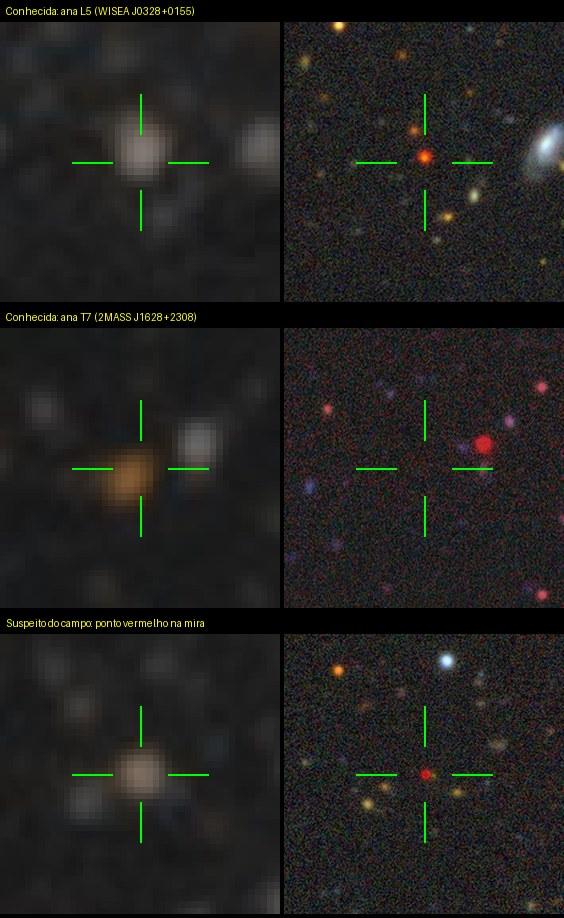
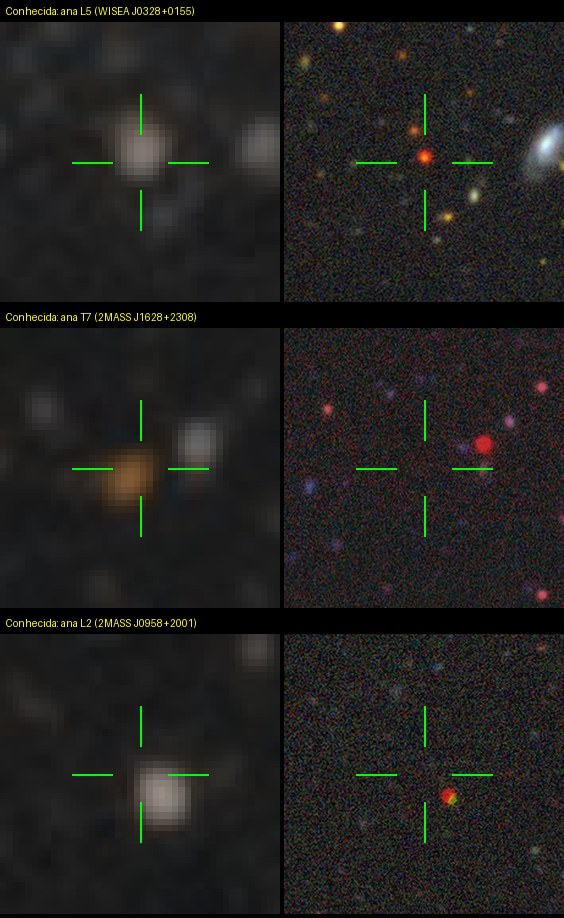
chore: preparar repositorio publico
- referencia de 'confirmar' usa a ana L2 2MASS J0958+2001 no lugar do
  candidato confirmado, que fica fora do publico ate a segunda opiniao
- resumo em ingles no README, CI com os testes offline e selo
- versoes fixas no requirements.txt (com pillow, usado em tools/)

diff --git a/tools/gerar_referencias.py b/tools/gerar_referencias.py
@@ -28,7 +28,8 @@ CASOS = {
     "confirmar": [
         (52.16177, 1.92045, "Conhecida: ana L5 (WISEA J0328+0155)"),
         (247.162496, 23.138284, "Conhecida: ana T7 (2MASS J1628+2308)"),
-        (150.318181, 18.670468, "Suspeito do campo: ponto vermelho na mira"),
+        # candidato confirmado fica fora do repositorio publico ate a segunda opiniao
+        (149.711708, 20.03125, "Conhecida: ana L2 (2MASS J0958+2001)"),
     ],
     "duvida": [
         (113.680876, -71.962338, "Conhecida: ana Y0 (WISE J0734-7157)"),

diff --git a/README.md b/README.md
@@ -1,10 +1,16 @@
 # Rastro
 
+[![testes](https://github.com/mpena2099/rastro/actions/workflows/testes.yml/badge.svg)](https://github.com/mpena2099/rastro/actions/workflows/testes.yml)
+
 Pipeline pessoal de mineração de dados astronômicos que caça **anãs marrons e estrelas frias próximas ao Sol** ainda não catalogadas, procurando por **movimento próprio anômalo** no catálogo público **CatWISE2020**.
 
 ![Ilustração artística de uma anã marrom](docs/img/eso1404c.jpg)
 
 *Ilustração artística de uma anã marrom (Luhman 16B), parte do terceiro sistema mais próximo do Sol. Crédito: ESO/I. Crossfield/N. Risinger (skysurvey.org), [CC BY 4.0](https://creativecommons.org/licenses/by/4.0/).*
+
+## English summary
+
+Rastro is a personal data-mining pipeline that hunts for **uncatalogued brown dwarfs and cool stars near the Sun** through **high proper motion** in the public **CatWISE2020** catalogue (queried via IRSA TAP). Five automated phases share state through SQLite: a sanity check that recovers Luhman 16 and compares its measured proper motion, a tiled field download with server-side cuts, quality filtering (proper-motion significance, W2 SNR, contamination flags, pmcode), removal of known objects by SIMBAD cross-match, and an LLM triage that only ranks, never decides. Two manual phases follow: a local Streamlit app for visual review (unWISE and Legacy Surveys cutouts, Gaia/Pan-STARRS counterparts, and a consistency test of the motion against AllWISE positions) and an HTML report for a second opinion. Recall against 949 known L/T/Y dwarfs from SIMBAD is about 76%. A 25 deg² scan (RA 148-153, Dec +18 to +23) left 239 candidates under review; no discovery is claimed. Code and docs are in Portuguese; `config.py` holds every parameter. Run with `python pipeline.py`; offline tests with `python tests/test_units.py`.
 
 ## Em palavras simples
 
@@ -84,7 +90,7 @@ Em cada linha: infravermelho (unWISE NEO7) e óptico (Legacy Surveys). As três 
 
 1. **Anã L5 conhecida.** Bolha nítida no infravermelho e um ponto vermelho no óptico, os dois na mira.
 2. **Anã T7 conhecida.** Bolha alaranjada no infravermelho, na borda da mira (o objeto andou desde 2015) e nada no óptico naquela posição. O ponto vermelho à direita, no óptico, é outra fonte.
-3. **Suspeito do campo.** Bolha nítida no infravermelho e um pontinho vermelho exatamente na mira (cor W1-W2 0,56). É o tipo de caso que vale levar ao WiseView.
+3. **Anã L2 conhecida, do próprio campo varrido.** Bolha nítida no infravermelho e um pontinho vermelho no óptico, os dois logo abaixo da mira: a posição do catálogo é de 2000 e o objeto andou desde então. Um suspeito com essa cara vale levar ao WiseView.
 
 *Dúvida*
 
